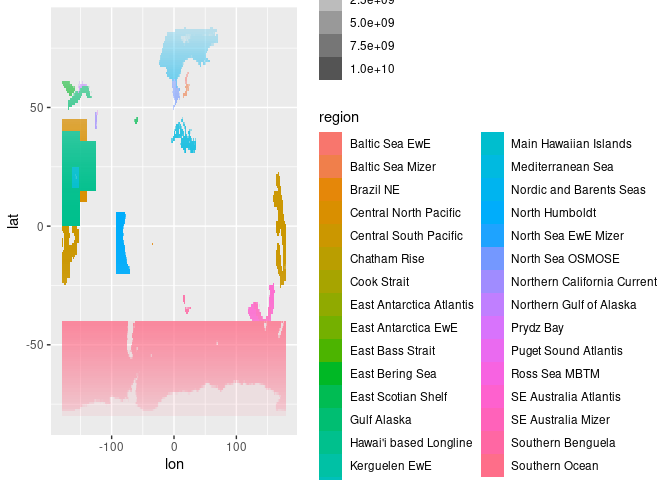
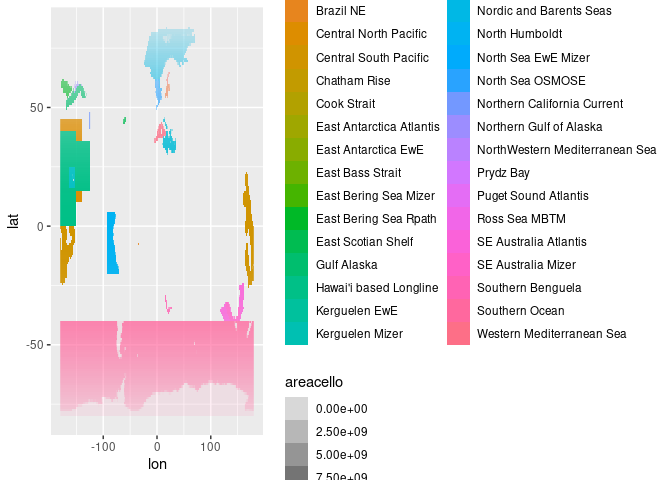
adding new regions

diff --git a/Scripts/03b_Regional_Models_3DMasks.md b/Scripts/03b_Regional_Models_3DMasks.md
@@ -162,94 +162,64 @@ plot(ras)
 
     ## Warning in x@ptr$readStart(): GDAL Message 1: dimension #0 (time) is not a Time
     ## or Vertical dimension.
-
     ## Warning in x@ptr$readStart(): GDAL Message 1: dimension #0 (time) is not a Time
     ## or Vertical dimension.
-
     ## Warning in x@ptr$readStart(): GDAL Message 1: dimension #0 (time) is not a Time
     ## or Vertical dimension.
-
     ## Warning in x@ptr$readStart(): GDAL Message 1: dimension #0 (time) is not a Time
     ## or Vertical dimension.
-
     ## Warning in x@ptr$readStart(): GDAL Message 1: dimension #0 (time) is not a Time
     ## or Vertical dimension.
-
     ## Warning in x@ptr$readStart(): GDAL Message 1: dimension #0 (time) is not a Time
     ## or Vertical dimension.
-
     ## Warning in x@ptr$readStart(): GDAL Message 1: dimension #0 (time) is not a Time
     ## or Vertical dimension.
-
     ## Warning in x@ptr$readStart(): GDAL Message 1: dimension #0 (time) is not a Time
     ## or Vertical dimension.
-
     ## Warning in x@ptr$readStart(): GDAL Message 1: dimension #0 (time) is not a Time
     ## or Vertical dimension.
-
     ## Warning in x@ptr$readStart(): GDAL Message 1: dimension #0 (time) is not a Time
     ## or Vertical dimension.
-
     ## Warning in x@ptr$readStart(): GDAL Message 1: dimension #0 (time) is not a Time
     ## or Vertical dimension.
-
     ## Warning in x@ptr$readStart(): GDAL Message 1: dimension #0 (time) is not a Time
     ## or Vertical dimension.
-
     ## Warning in x@ptr$readStart(): GDAL Message 1: dimension #0 (time) is not a Time
     ## or Vertical dimension.
-
     ## Warning in x@ptr$readStart(): GDAL Message 1: dimension #0 (time) is not a Time
     ## or Vertical dimension.
-
     ## Warning in x@ptr$readStart(): GDAL Message 1: dimension #0 (time) is not a Time
     ## or Vertical dimension.
-
     ## Warning in x@ptr$readStart(): GDAL Message 1: dimension #0 (time) is not a Time
     ## or Vertical dimension.
-
     ## Warning in x@ptr$readStart(): GDAL Message 1: dimension #0 (time) is not a Time
     ## or Vertical dimension.
-
     ## Warning in x@ptr$readStart(): GDAL Message 1: dimension #0 (time) is not a Time
     ## or Vertical dimension.
-
     ## Warning in x@ptr$readStart(): GDAL Message 1: dimension #0 (time) is not a Time
     ## or Vertical dimension.
-
     ## Warning in x@ptr$readStart(): GDAL Message 1: dimension #0 (time) is not a Time
     ## or Vertical dimension.
-
     ## Warning in x@ptr$readStart(): GDAL Message 1: dimension #0 (time) is not a Time
     ## or Vertical dimension.
-
     ## Warning in x@ptr$readStart(): GDAL Message 1: dimension #0 (time) is not a Time
     ## or Vertical dimension.
-
     ## Warning in x@ptr$readStart(): GDAL Message 1: dimension #0 (time) is not a Time
     ## or Vertical dimension.
-
     ## Warning in x@ptr$readStart(): GDAL Message 1: dimension #0 (time) is not a Time
     ## or Vertical dimension.
-
     ## Warning in x@ptr$readStart(): GDAL Message 1: dimension #0 (time) is not a Time
     ## or Vertical dimension.
-
     ## Warning in x@ptr$readStart(): GDAL Message 1: dimension #0 (time) is not a Time
     ## or Vertical dimension.
-
     ## Warning in x@ptr$readStart(): GDAL Message 1: dimension #0 (time) is not a Time
     ## or Vertical dimension.
-
     ## Warning in x@ptr$readStart(): GDAL Message 1: dimension #0 (time) is not a Time
     ## or Vertical dimension.
-
     ## Warning in x@ptr$readStart(): GDAL Message 1: dimension #0 (time) is not a Time
     ## or Vertical dimension.
-
     ## Warning in x@ptr$readStart(): GDAL Message 1: dimension #0 (time) is not a Time
     ## or Vertical dimension.
-
     ## Warning in x@ptr$readStart(): GDAL Message 1: dimension #0 (time) is not a Time
     ## or Vertical dimension.
 
@@ -276,7 +246,7 @@ reg_keys |>
 reg_keys
 ```
 
-    ## # A tibble: 32 × 2
+    ## # A tibble: 35 × 2
     ##       id region                  
     ##    <int> <chr>                   
     ##  1     1 Baltic Sea EwE          
@@ -289,7 +259,7 @@ reg_keys
     ##  8     8 East Antarctica Atlantis
     ##  9     9 East Antarctica EwE     
     ## 10    10 East Bass Strait        
-    ## # ℹ 22 more rows
+    ## # ℹ 25 more rows
 
 ## How to use raster mask
 
@@ -373,7 +343,7 @@ mask_df <- read_csv(list.files(out_folder, "w-fractions.*csv",
   filter(region == "East Antarctica EwE")
 ```
 
-    ## Rows: 23596 Columns: 4
+    ## Rows: 23797 Columns: 4
     ## ── Column specification ────────────────────────────────────────────────────────
     ## Delimiter: ","
     ## chr (1): region
@@ -404,7 +374,7 @@ extract_df_all <- read_csv(list.files(out_folder, "w-fractions.*csv",
   left_join(sample_df, by = c("lon", "lat"))
 ```
 
-    ## Rows: 23596 Columns: 4
+    ## Rows: 23797 Columns: 4
     ## ── Column specification ────────────────────────────────────────────────────────
     ## Delimiter: ","
     ## chr (1): region
